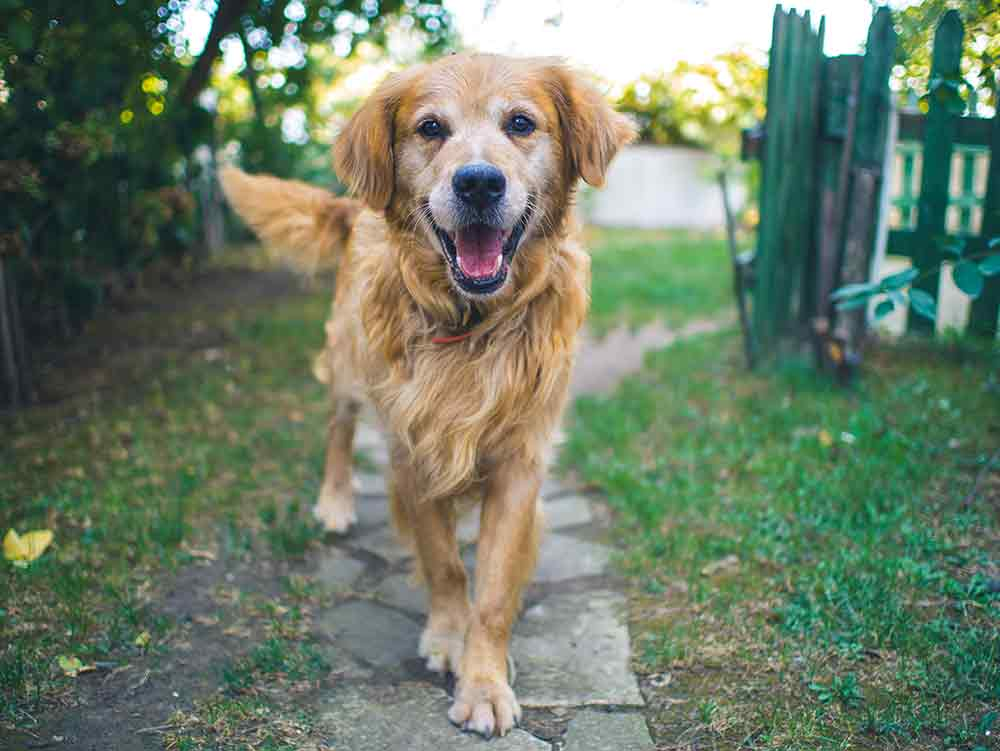
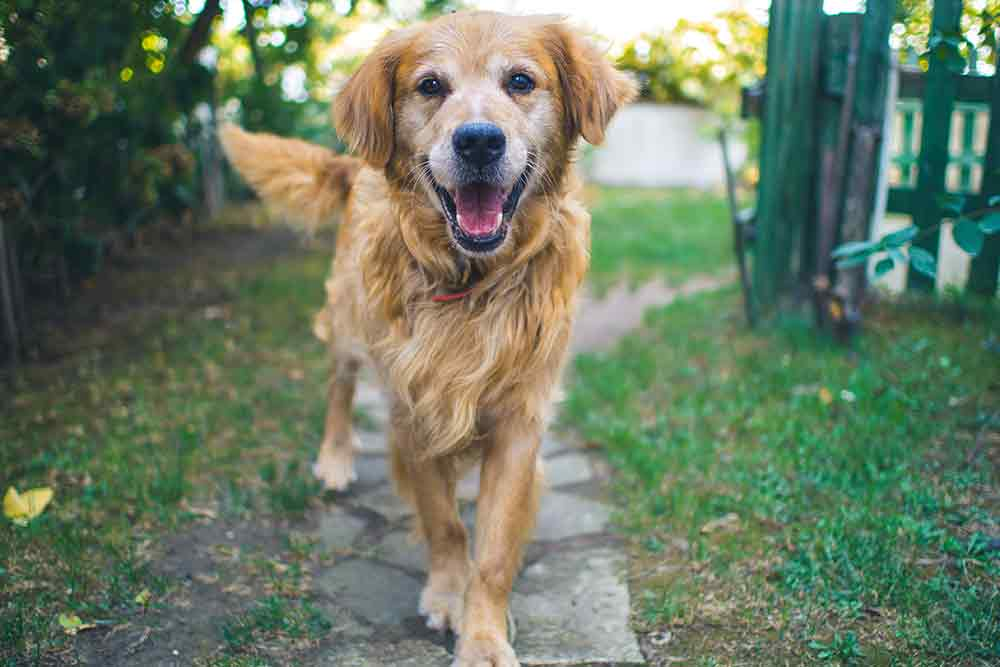
Add styling to rescue page

diff --git a/rescue.html b/rescue.html
@@ -21,13 +21,13 @@
 
   <header class="masthead">
     <div class="grid">
-      <div class="unit xs-1 s-1 m-1-3 l-1-3 gutter push-1-2">
+      <div class="unit xs-1 s-1 m-1-3 l-1-4 gutter">
         <a href="index.html"><img class="img-flex" src="images/bark-logo.png" alt="BARK logo"></a>
       </div>
 
-      <nav class="unit xs-1 s-1 m-2-3 l-2-3 nav">
+      <nav class="unit xs-1 s-1 m-2-3 unit-push-l-1-4 l-1-2 nav center-content-horizontal">
         <ul class="list-group-inline push-0">
-          <li class="current"><a class="gutter pad-t-1-2 pad-b-1-2 block mega" href="rescue.html">Rescues</a></li>
+          <li><a class="gutter pad-t-1-2 pad-b-1-2 block mega" href="rescue.html">Rescues</a></li>
           <li><a class="gutter pad-t-1-2 pad-b-1-2 block mega" href="adopt.html">Adopt</a></li>
           <li><a class="gutter pad-t-1-2 pad-b-1-2 block mega" href="#">Donate</a></li>
         </ul>
@@ -35,147 +35,149 @@
     </div>
   </header>
 
-  <main class="gutter pad-t">
-    <h2 class="push-2">Check Out Our Pawsome Pups!</h2>
+  <main class="pad-t">
+    <h2 class="push gutter">Check Out Our Pawsome Pups!</h2>
 
-    <section class="push-2 gutter-1-2">
-      <div>
-        <div>
-          <img class="img-flex" src="images/pup-1.jpg" alt="Image of a Staffy mix dog.">
-        <div>
-
-        <div class="pad-t">
-          <h3>Name: Fido</h3>
-          <p class="push-1-4">Breed: Staffy Mix</p>
-          <p class="push-1-4">Age: 3 years</p>
-          <p class="push-1-4">Sex: Nutered Male</p>
-          <p class="push-1-4">Colour: White and Black</p>
-          <p class="push">Animal ID: 893726</p>
-
+    <div class="grid gutter-3-4">
+      <section class="unit xs-1 s-1 m-1-2 l-1-3 push gutter-1-4">
+        <div class="island pup-cards">
           <div>
-            <a class="btn btn-ghost" href="#">About Fido</a>
+            <img class="img-flex dog-images" src="images/pup-1.jpg" alt="Image of a Staffy mix dog.">
+          </div>
+
+          <div class="pad-t-1-2">
+            <h3 class="push-1-2">Fido</h3>
+            <p class="push-1-4 micro">Breed: Staffy Mix</p>
+            <p class="push-1-4 micro">Age: 3 years</p>
+            <p class="push-1-4 micro">Sex: Nutered Male</p>
+            <p class="push-1-4 micro">Colour: White and Black</p>
+            <p class="push micro">Animal ID: 893726</p>
+
+            <div>
+              <a class="btn btn-ghost rescue-about-btn" href="#">About Fido</a>
+            </div>
           </div>
         </div>
-      </div>
-    </section>
+      </section>
 
-    <section class="push-2 gutter-1-2">
-      <div>
-        <div>
-          <img class="img-flex" src="images/pup-2.jpg" alt="Image of a Golden Retriever.">
-        <div>
-
-        <div class="pad-t">
-          <h3>Name: Sammy</h3>
-          <p class="push-1-4">Breed: Golden Retriever</p>
-          <p class="push-1-4">Age: 7 years</p>
-          <p class="push-1-4">Sex: Spayed Female</p>
-          <p class="push-1-4">Colour: Dark Golden</p>
-          <p class="push">Animal ID: 748372</p>
-
+      <section class="unit xs-1 s-1 m-1-2 l-1-3 push gutter-1-4">
+        <div class="island pup-cards">
           <div>
-            <a class="btn btn-ghost" href="#">About Sammy</a>
+            <img class="img-flex dog-images" src="images/pup-2.jpg" alt="Image of a Golden Retriever.">
+          </div>
+
+          <div class="pad-t-1-2">
+            <h3 class="push-1-2">Sammy</h3>
+            <p class="push-1-4 micro">Breed: Golden Retriever</p>
+            <p class="push-1-4 micro">Age: 7 years</p>
+            <p class="push-1-4 micro">Sex: Spayed Female</p>
+            <p class="push-1-4 micro">Colour: Dark Golden</p>
+            <p class="push micro">Animal ID: 748372</p>
+
+            <div>
+              <a class="btn btn-ghost rescue-about-btn" href="#">About Sammy</a>
+            </div>
           </div>
         </div>
-      </div>
-    </section>
+      </section>
 
-    <section class="push-2 gutter-1-2">
-      <div>
-        <div>
-          <img class="img-flex" src="images/pup-3.jpg" alt="Image of a Golden Retriever puppy.">
-        <div>
-
-        <div class="pad-t">
-          <h3>Name: Rigbey</h3>
-          <p class="push-1-4">Breed: Golden Retriever</p>
-          <p class="push-1-4">Age: 3 mo.</p>
-          <p class="push-1-4">Sex: Unspayed Female</p>
-          <p class="push-1-4">Colour: Light Golden</p>
-          <p class="push">Animal ID: 193846</p>
-
+      <section class="unit xs-1 s-1 m-1-2 l-1-3 push gutter-1-4">
+        <div class="island pup-cards">
           <div>
-            <a class="btn btn-ghost" href="#">About Rigbey</a>
+            <img class="img-flex dog-images" src="images/pup-3.jpg" alt="Image of a Golden Retriever puppy.">
+          </div>
+
+          <div class="pad-t-1-2">
+            <h3 class="push-1-2">Rigbey</h3>
+            <p class="push-1-4 micro">Breed: Golden Retriever</p>
+            <p class="push-1-4 micro">Age: 3 mo.</p>
+            <p class="push-1-4 micro">Sex: Unspayed Female</p>
+            <p class="push-1-4 micro">Colour: Light Golden</p>
+            <p class="push micro">Animal ID: 193846</p>
+
+            <div>
+              <a class="btn btn-ghost rescue-about-btn" href="#">About Rigbey</a>
+            </div>
           </div>
         </div>
-      </div>
-    </section>
+      </section>
 
-    <section class="push-2 gutter-1-2">
-      <div>
-        <div>
-          <img class="img-flex" src="images/pup-4.jpg" alt="Image of a Boston Terrier.">
-        <div>
-
-        <div class="pad-t">
-          <h3>Name: Jackson</h3>
-          <p class="push-1-4">Breed: Boston Terrier</p>
-          <p class="push-1-4">Age: 4 years</p>
-          <p class="push-1-4">Sex: Nutered Male</p>
-          <p class="push-1-4">Colour: Black and White</p>
-          <p class="push">Animal ID: 846204</p>
-
+      <section class="unit xs-1 s-1 m-1-2 l-1-3 push gutter-1-4">
+        <div class="island pup-cards">
           <div>
-            <a class="btn btn-ghost" href="#">About Jackson</a>
+            <img class="img-flex dog-images" src="images/pup-4.jpg" alt="Image of a Boston Terrier.">
+          </div>
+
+          <div class="pad-t-1-2">
+            <h3 class="push-1-2">Jackson</h3>
+            <p class="push-1-4 micro">Breed: Boston Terrier</p>
+            <p class="push-1-4 micro">Age: 4 years</p>
+            <p class="push-1-4 micro">Sex: Nutered Male</p>
+            <p class="push-1-4 micro">Colour: Black and White</p>
+            <p class="push micro">Animal ID: 846204</p>
+
+            <div>
+              <a class="btn btn-ghost rescue-about-btn" href="#">About Jackson</a>
+            </div>
           </div>
         </div>
-      </div>
-    </section>
+      </section>
 
-    <section class="push-2 gutter-1-2">
-      <div>
-        <div>
-          <img class="img-flex" src="images/pup-5.jpg" alt="Image of a Duck Tolling Retriever.">
-        <div>
-
-        <div class="pad-t">
-          <h3>Name: Oscar</h3>
-          <p class="push-1-4">Breed: Nova Scotia Duck Tolling Retriever</p>
-          <p class="push-1-4">Age: 2 years</p>
-          <p class="push-1-4">Sex: Nutered Male</p>
-          <p class="push-1-4">Colour: Tan</p>
-          <p class="push">Animal ID: 442941</p>
-
+      <section class="unit xs-1 s-1 m-1-2 l-1-3 push gutter-1-4">
+        <div class="island pup-cards">
           <div>
-            <a class="btn btn-ghost" href="#">About Oscar</a>
+            <img class="img-flex dog-images" src="images/pup-5.jpg" alt="Image of a Duck Tolling Retriever.">
+          </div>
+
+          <div class="pad-t-1-2">
+            <h3 class="push-1-2">Oscar</h3>
+            <p class="push-1-4 micro">Breed: Duck Tolling Retriever</p>
+            <p class="push-1-4 micro">Age: 2 years</p>
+            <p class="push-1-4 micro">Sex: Nutered Male</p>
+            <p class="push-1-4 micro">Colour: Tan</p>
+            <p class="push micro">Animal ID: 442941</p>
+
+            <div>
+              <a class="btn btn-ghost rescue-about-btn" href="#">About Oscar</a>
+            </div>
           </div>
         </div>
-      </div>
-    </section>
+      </section>
 
-    <section class="push-2 gutter-1-2">
-      <div>
-        <div>
-          <img class="img-flex" src="images/pup-6.jpg" alt="Image of a chocolate Lab.">
-        <div>
-
-        <div class="pad-t">
-          <h3>Name: Max</h3>
-          <p class="push-1-4">Breed: Labrador Retriever</p>
-          <p class="push-1-4">Age: 8 years</p>
-          <p class="push-1-4">Sex: Nutered Male</p>
-          <p class="push-1-4">Colour: Dark Brown</p>
-          <p class="push">Animal ID: 936759</p>
-
+      <section class="unit xs-1 s-1 m-1-2 l-1-3 push gutter-1-4">
+        <div class="island pup-cards">
           <div>
-            <a class="btn btn-ghost" href="#">About Max</a>
+            <img class="img-flex dog-images" src="images/pup-6.jpg" alt="Image of a chocolate Lab.">
+          </div>
+
+          <div class="pad-t-1-2">
+            <h3 class="push-1-2">Max</h3>
+            <p class="push-1-4 micro">Breed: Labrador Retriever</p>
+            <p class="push-1-4 micro">Age: 8 years</p>
+            <p class="push-1-4 micro">Sex: Nutered Male</p>
+            <p class="push-1-4 micro">Colour: Dark Brown</p>
+            <p class="push micro">Animal ID: 936759</p>
+
+            <div>
+              <a class="btn btn-ghost rescue-about-btn" href="#">About Max</a>
+            </div>
           </div>
         </div>
-      </div>
-    </section>
+      </section>
+    </div>
   </main>
 
-  <footer class="footer pad-t pad-b gutter">
+  <footer class="footer pad-t pad-b-1-2 gutter center-content">
     <nav class="footer-nav">
-      <ul class="list-group-inline">
-        <li><a href="index.html">Home</a></li>
-        <li class="current-footer"><a href="rescue.html">Rescues</a></li>
-        <li><a href="adopt.html">Adopt</a></li>
-        <li><a href="#">Donate</a></li>
+      <ul class="list-group-inline push-3-4">
+        <li><a class="current-footer gutter-1-4" href="index.html">Home</a></li>
+        <li><a class="gutter-1-4" href="rescue.html">Rescues</a></li>
+        <li><a class="gutter-1-4" href="adopt.html">Adopt</a></li>
+        <li><a class="gutter-1-4" href="#">Donate</a></li>
       </ul>
     </nav>
 
-    <small class="micro">© Bytown Association for Rescued Kanines</small>
+    <small class="pico">© Bytown Association for Rescued Kanines</small>
   </footer>
 </body>
 </html>

diff --git a/css/main.css b/css/main.css
@@ -32,6 +32,10 @@ h2 {
   font-family: Verdana, sans-serif;
 }
 
+h3 {
+  font-family: Verdana, sans-serif;
+}
+
 .rescue-section {
   background-color: rgba(191, 62, 14, .3);
 }
@@ -78,6 +82,40 @@ h2 {
   color: #333;
   background-color: #fff;
   border: 3px solid #f2dcc9;
+}
+
+.dog-images {
+  object-fit: cover;
+}
+
+.pup-cards {
+  border: 3px solid rgba(94, 191, 191, .3);
+  border-radius: 10px;
+}
+
+.pup-cards:hover {
+  background-color: rgba(94, 191, 191, .3);
+  border: 3px solid rgba(94, 191, 191, .1);
+  border-radius: 10px;
+}
+
+.pup-cards:hover .rescue-about-btn {
+  background-color: rgba(94, 191, 191, .3);
+  color: #fff;
+  background-color: #bf3e0f;
+  border: 3px solid #bf3e0f;
+}
+
+.rescue-about-btn {
+  color: #fff;
+  background-color: #5ebfbf;
+  border: 3px solid #5ebfbf;
+}
+
+.rescue-about-btn:hover {
+  color: #fff;
+  background-color: #bf3e0f;
+  border: 3px solid #bf3e0f;
 }
 
 hr {
